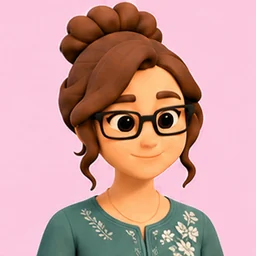
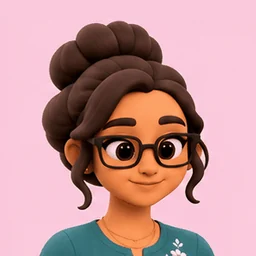
Kiru colour redo: work3 idle/wave/coffee, home idle/wave in kiru-v2 colours
Claude-Session: https://claude.ai/code/session_01M9MLSzTgGmRpDx4quWz9qx

diff --git a/design/gen/status.md b/design/gen/status.md
@@ -122,8 +122,8 @@ Generated in ChatGPT, checked frame by frame, converted to 256x256 animated WebP
 | kiru/out/pack | done | 0 |  |
 | kiru/out/rain | done | 0 | end pose (eyes down) differs slightly from the start (eyes forward) |
 | kiru/out/birthday | done | 0 |  |
-| kiru/home/idle | done | 0 | Kiru v2 look; body rose up to 9 px and did not settle back; re-aligned and cropped |
-| kiru/home/wave | done | 0 | Kiru v2 look; frames 4-7 drifted up 7 px with a bottom strip; re-aligned and cropped |
+| kiru/home/idle | done | 1 | colour redo Nov 19 (sprite sheet, kiru-v2 colours): pink floral nighty; blink frames 4-9; stable framing |
+| kiru/home/wave | done | 1 | colour redo Nov 19 (sprite sheet, kiru-v2 colours): same hand waves at the left edge (partly cut in frames 6-9); one blink |
 | kiru/home/tv | done | 0 |  |
 | kiru/home/phone | done | 0 |  |
 | kiru/home/cook | done | 0 |  |
@@ -137,9 +137,9 @@ Generated in ChatGPT, checked frame by frame, converted to 256x256 animated WebP
 | kiru/work2/idle | done | 1 | colour redo Nov 19 (sprite sheet, kiru-v2 colours): frames drifted up to 12 px on the sheet; aligned to frame 0; blink frames 6-9 |
 | kiru/work2/wave | done | 1 | colour redo Nov 19 (sprite sheet, kiru-v2 colours): same hand waves at the left edge (partly cut in frames 6-9); one blink; stable framing |
 | kiru/work2/type | done | 1 | colour redo Nov 19 (sprite sheet, kiru-v2 colours): ONE laptop lid at the bottom right, hands below the frame; looks down then up with a smile; head bob up to 5 px |
-| kiru/work3/idle | done | 0 | Kiru v2 look |
-| kiru/work3/wave | done | 0 | Kiru v2 look; motion blur on the hand in frames 5-6 |
-| kiru/work3/coffee | done | 0 | Kiru v2 look; ONE mug, same hand in every frame; frame 9 jumped 7 px (re-aligned, cropped); small white sigh puff in frame 9 |
+| kiru/work3/idle | done | 1 | colour redo Nov 19 (sprite sheet, kiru-v2 colours): blink frames 4-9; stable framing |
+| kiru/work3/wave | done | 1 | colour redo Nov 19 (sprite sheet, kiru-v2 colours): same hand waves at the left edge (partly cut in frames 6-9); one blink |
+| kiru/work3/coffee | done | 1 | colour redo Nov 19 (sprite sheet, kiru-v2 colours): ONE cream mug, same hand (frames 2-10); frames 8-15 sat 4-7 px lower on the sheet, aligned to frame 0 |
 | kiru/out2/idle | done | 0 | Kiru v2 look |
 | kiru/out2/wave | done | 0 | Kiru v2 look; the blink reads as a wink (frame 5) |
 | kiru/out2/walk | done | 0 | Kiru v2 look; bag strap on the same shoulder throughout; frames 4-15 sat 4-7 px higher than frame 0 (loop pop) - re-aligned and cropped |
@@ -193,12 +193,12 @@ Reference measurements (tools: /tmp/tools/colour.py; median Lab over sampled fra
 | kiru/gym/wave | pending |  |  | old: skin dE 14.1 hair dE 22.3 |
 | kiru/gym/workout | pending |  |  | old: skin dE 13.8 hair dE 24.1 |
 | kiru/home/cook | pending |  |  | old: skin dE 8.9 hair dE 10.0 |
-| kiru/home/idle | pending |  |  | old: skin dE 14.8 hair dE 23.2 |
+| kiru/home/idle | done | 6.2 | 3.6 | pink floral nighty; blink frames 4-9; stable framing |
 | kiru/home/laugh | pending |  |  | old: skin dE 10.2 hair dE 9.2 |
 | kiru/home/phone | pending |  |  | old: skin dE 11.5 hair dE 9.5 |
 | kiru/home/sleep | pending |  |  | old: skin dE 5.0 hair dE 12.3 |
 | kiru/home/tv | pending |  |  | old: skin dE 10.4 hair dE 8.9 |
-| kiru/home/wave | pending |  |  | old: skin dE 10.7 hair dE 6.6 |
+| kiru/home/wave | done | 7.3 | 5.2 | same hand waves at the left edge (partly cut in frames 6-9); one blink |
 | kiru/home2/idle | pending |  |  | old: skin dE 15.8 hair dE 22.1 |
 | kiru/home2/phone | pending |  |  | old: skin dE 15.5 hair dE 25.6 |
 | kiru/home2/sleep | pending |  |  | old: skin dE 12.8 hair dE 22.8 |
@@ -230,7 +230,7 @@ Reference measurements (tools: /tmp/tools/colour.py; median Lab over sampled fra
 | kiru/work2/idle | done | 3.1 | 2.3 | frames drifted up to 12 px on the sheet; aligned to frame 0; blink frames 6-9 |
 | kiru/work2/type | done | 3.3 | 3.1 | ONE laptop lid at the bottom right, hands below the frame; looks down then up with a smile; head bob up to 5 px |
 | kiru/work2/wave | done | 4.9 | 3.8 | same hand waves at the left edge (partly cut in frames 6-9); one blink; stable framing |
-| kiru/work3/coffee | pending |  |  | old: skin dE 14.0 hair dE 16.9 |
-| kiru/work3/idle | pending |  |  | old: skin dE 13.9 hair dE 14.3 |
-| kiru/work3/wave | pending |  |  | old: skin dE 14.1 hair dE 14.5 |
+| kiru/work3/coffee | done | 5.4 | 3.6 | ONE cream mug, same hand (frames 2-10); frames 8-15 sat 4-7 px lower on the sheet, aligned to frame 0 |
+| kiru/work3/idle | done | 3.5 | 2.0 | blink frames 4-9; stable framing |
+| kiru/work3/wave | done | 4.1 | 2.1 | same hand waves at the left edge (partly cut in frames 6-9); one blink |
 | dushy/out/idle | pending |  |  | old render: different face / darker than the rest of the Dushy set |
